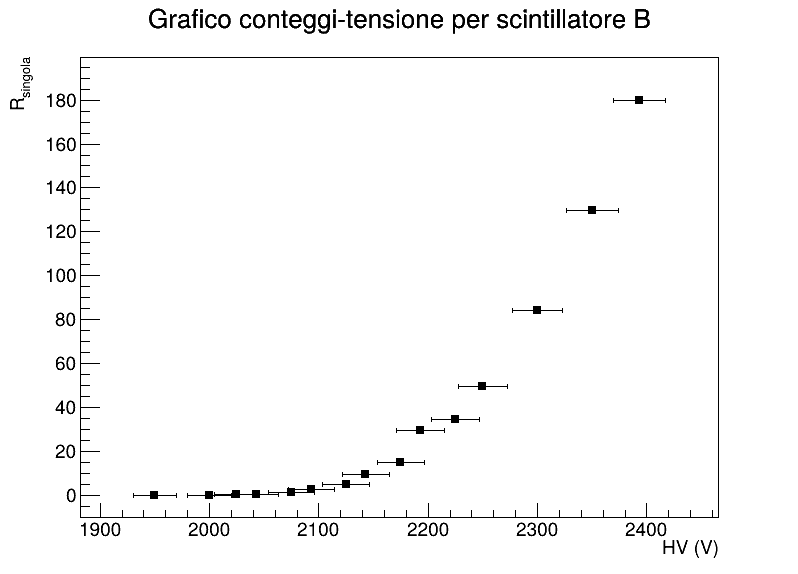
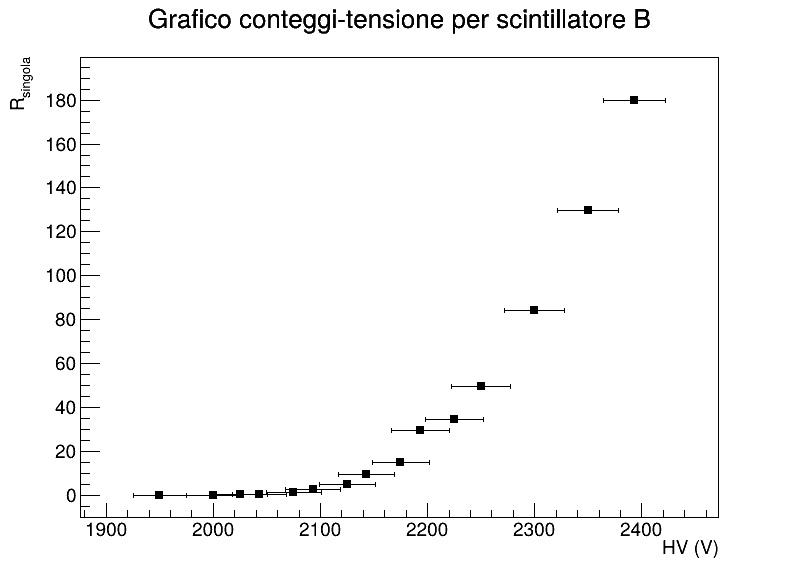
Fatte migliorie

diff --git a/LAB_nucl_efficienza_2.C b/LAB_nucl_efficienza_2.C
@@ -1,0 +1,207 @@
+#include<iostream>
+#include "TGraphErrors.h"
+#include "TH1D.h"
+#include "TF1.h"
+#include<vector>
+#include<cmath>
+#include "TCanvas.h"
+using namespace std;
+
+
+//Obiettivo è il calcolo dell'efficienza dei nostri rivelatori; è la prima parte che richiede una serie analisi dati
+
+
+double EfficiencyFalling(double *x, double *par) {
+  return par[0]/(1+exp((x[0] - par[1])/par[2]));
+}
+
+double EfficiencyRising(double *x, double *par) {
+  return par[0]/(1+exp((par[1] - x[0])/par[2]));
+}
+
+
+void LAB_nucl_efficienza_2(){
+    //
+    //SCRIVERE QUA**********************************************************************************************************************
+    //creo gli array con i dati (copia-incollali tra le parentesi graffe)
+    vector<double> HV={2193, 2143, 2093, 2043, 2000, 1950, 2025, 2075, 2125, 2175, 2225, 2250, 2300, 2350, 2393}; //alta tensione
+    //
+    vector<double> coin_doppie={252, 244, 250, 276, 256, 260, 275, 271, 271, 245, 261, 252, 266, 258, 248};
+    //
+    vector<double> coin_triple= {238, 113, 30, 3, 1, 0.0000000000001, 1, 13, 72, 164, 248, 243, 259, 249, 245};
+    //
+    vector<double> coin_singole= {2933, 938, 236, 15, 6, 0.0000000000000001, 11, 110, 472, 1509, 3461, 4951, 8427, 12954, 17980};
+    //
+    double tempo_daq=100; //intervallo di tempo dell'acquisizione dati
+    //
+    double err_tempo=0.001; //errore sul tempo di data acquisition
+    //
+    double err_rel_tempo= err_tempo/tempo_daq; //errore relativo sul tempo di data acquisition
+    //
+    //STOP SCRITTURA (NON SCRIVERE IN QUESTI ARRAY QUA SOTTO!!!!)**************************************************************************
+    //qui scriviamo gli array con i rate
+    //
+    vector<double> R_doppie;
+    //
+    vector<double> R_triple;
+    //
+    vector<double> R_singole;
+    //
+    //RIEMPIMENTO ARRAY RATE
+    //R_doppie
+    for(vector<double>::const_iterator it= coin_doppie.begin(); it!= coin_doppie.end(); it++){
+        double misura= *it/tempo_daq;
+        R_doppie.push_back(misura);
+    }
+    //R_triple
+    for(vector<double>::const_iterator it= coin_triple.begin(); it!= coin_triple.end(); it++){
+        double misura= *it/tempo_daq;
+        R_triple.push_back(misura);
+    }
+    //R_singole
+    for(vector<double>::const_iterator it= coin_singole.begin(); it!= coin_singole.end(); it++){
+        double misura= *it/tempo_daq;
+        R_singole.push_back(misura);
+    }
+    //
+    //Ora ARRAY CON GLI ERRORI
+    vector<double> err_HV;  //cfr manuale
+    //
+    vector<double> err_coin_doppie={};
+    //
+    vector<double> err_coin_triple= {};
+    //
+    vector<double> err_coin_singole= {};
+    //
+    vector<double> err_R_doppie={};
+    //
+    vector<double> err_R_triple;
+    //
+    vector<double> err_R_singole;
+    //
+    //
+    //RIEMPIMENTO ERRORI
+    //
+    //Riempimento errori su HV
+    for(vector<double>::const_iterator it= HV.begin(); it!= HV.end(); it++){
+        double x= *it;
+        double err= x/100+5; //(errore dell'1% + 5 V da manuale)
+        err_HV.push_back(err);
+       
+    }
+    //
+    //riempimento errori su coin_doppie
+    for(vector<double>::const_iterator it= coin_doppie.begin(); it!= coin_doppie.end(); it++){
+        double x= *it;
+        double err= pow(x, 0.5); 
+        err_coin_doppie.push_back(err);
+    }
+    //
+    //riempimento errori su coin_triple
+    for(vector<double>::const_iterator it= coin_triple.begin(); it!= coin_triple.end(); it++){
+        double x= *it;
+        double err= pow(x, 0.5); 
+        err_coin_triple.push_back(err);
+    }
+    //
+    //riempimento errori su coin_singole
+    for(vector<double>::const_iterator it= coin_singole.begin(); it!= coin_singole.end(); it++){
+        double x= *it;
+        double err= pow(x, 0.5);
+        err_coin_singole.push_back(err);
+    }
+    //
+    //non usiamo più i const iterator, perchè tanto il numero di elementi è determinato dalla lunghezza di HV
+    int numero_elementi= HV.size();
+    //
+    //riempimento errori su R_doppie
+    for(int i=0; i<numero_elementi; i++){
+        double err_rel_coin= err_coin_doppie[i]/coin_doppie[i]; //errore relativo coincidenze doppie
+        double err_rel_rate_quad= pow(err_rel_coin,2)+ pow(err_rel_tempo, 2); //errore relativo sul rate
+        double err_rel_rate= pow(err_rel_rate_quad, 0.5);
+        double err_ass_rate= err_rel_rate* R_doppie[i];
+        err_R_doppie.push_back(err_ass_rate);
+    }
+    //
+    //riempimento errori su R_triple
+    for(int i=0; i<numero_elementi; i++){
+        double  err_rel_coin= err_coin_triple[i]/coin_triple[i]; //errore relativo coincidenze triple
+        double err_rel_rate_quad= pow(err_rel_coin,2)+ pow(err_rel_tempo, 2); //errore relativo sul rate
+        double err_rel_rate= pow(err_rel_rate_quad, 0.5);
+        double err_ass_rate= err_rel_rate* R_triple[i];
+        err_R_triple.push_back(err_ass_rate);
+    }
+    //
+    //riempimento errori su R_singole
+    for(int i=0; i<numero_elementi; i++){
+        double err_rel_coin= err_coin_singole[i]/coin_singole[i]; //errore relativo coincidenze singole
+        double err_rel_rate_quad= pow(err_rel_coin,2)+ pow(err_rel_tempo, 2); //errore relativo sul rate
+        double err_rel_rate= pow(err_rel_rate_quad, 0.5);
+        double err_ass_rate= err_rel_rate* R_singole[i];
+        err_R_singole.push_back(err_ass_rate);
+        
+    }
+    //
+    //++++++++++++++++++++++++++++++++++++++
+    //CALCOLO DELL'EFFICIENZA
+    //
+    vector<double> eff={};
+    vector<double> err_eff={};
+
+    //
+    //calcolo efficienza (valore)
+    for(int i=0; i<numero_elementi; i++){
+        double my_doppia_coin= R_doppie[i];
+        double my_tripla_coin= R_triple[i];
+        double my_eff= my_tripla_coin/my_doppia_coin;
+        eff.push_back(my_eff);
+    }
+    //
+    //calcolo errore sull'efficienza
+    for(int i=0; i<numero_elementi; i++){
+        double varianza= (eff[i]*(1-eff[i]))/coin_doppie[i];
+        double err_ass= pow(varianza, 0.5);
+        err_eff.push_back(err_ass);
+    }
+    //
[1 lines of base64/hex data omitted]
+    //
+    //EFFICIENZA-TENSIONE
+    TCanvas* c1= new TCanvas("c1", "\epsilon - tensione", 800, 600);
+    //
+    TGraphErrors* gr1= new TGraphErrors(numero_elementi,HV.data(), eff.data(), err_HV.data(), err_eff.data());
+    //
+    gr1->GetXaxis()->SetTitle("HV (V)");
+    gr1->GetYaxis()->SetTitle("efficienza");
+    gr1->SetTitle("Grafico efficienza-tensione per scintillatore B");
+     gr1->SetMinimum(-0.3);
+     gr1->SetMarkerStyle(21);
+     TF1* fit_eff= new TF1("fit_eff", EfficiencyRising, 1950, 2400, 3);
+      fit_eff->SetParameters(1, 2100, 11);
+      gr1->Fit("fit_eff", "R");
+    gr1->Draw("AP");
+   
+    c1->Print("Grafico_eff_HV.png", "png");
+    cout<<"il p value di Hv-efficienza è"<<endl;
+    double p= fit_eff->GetProb();
+    cout<<p<<endl;
+
+
+
+
+
+    //
+    //GRAFICO   Rsingola-HV
+    TCanvas* c2= new TCanvas("c2", "R_singola-tensione", 800, 600);
+    //
+    TGraphErrors* gr2= new TGraphErrors(numero_elementi, HV.data(), R_singole.data(), err_HV.data(), err_R_singole.data());
+    gr2->GetXaxis()->SetTitle("HV (V)");
+    gr2->GetYaxis()->SetTitle("R_{singola}");
+    gr2->SetMinimum(-10);
+    gr2->SetMarkerStyle(21);
+    gr2->SetTitle("Grafico conteggi-tensione per scintillatore B");
+    c2->cd();
+    gr2->Draw("AP.");
+    c2->Print("Grafico_R_singola_HV.png", "png");
+
+}
